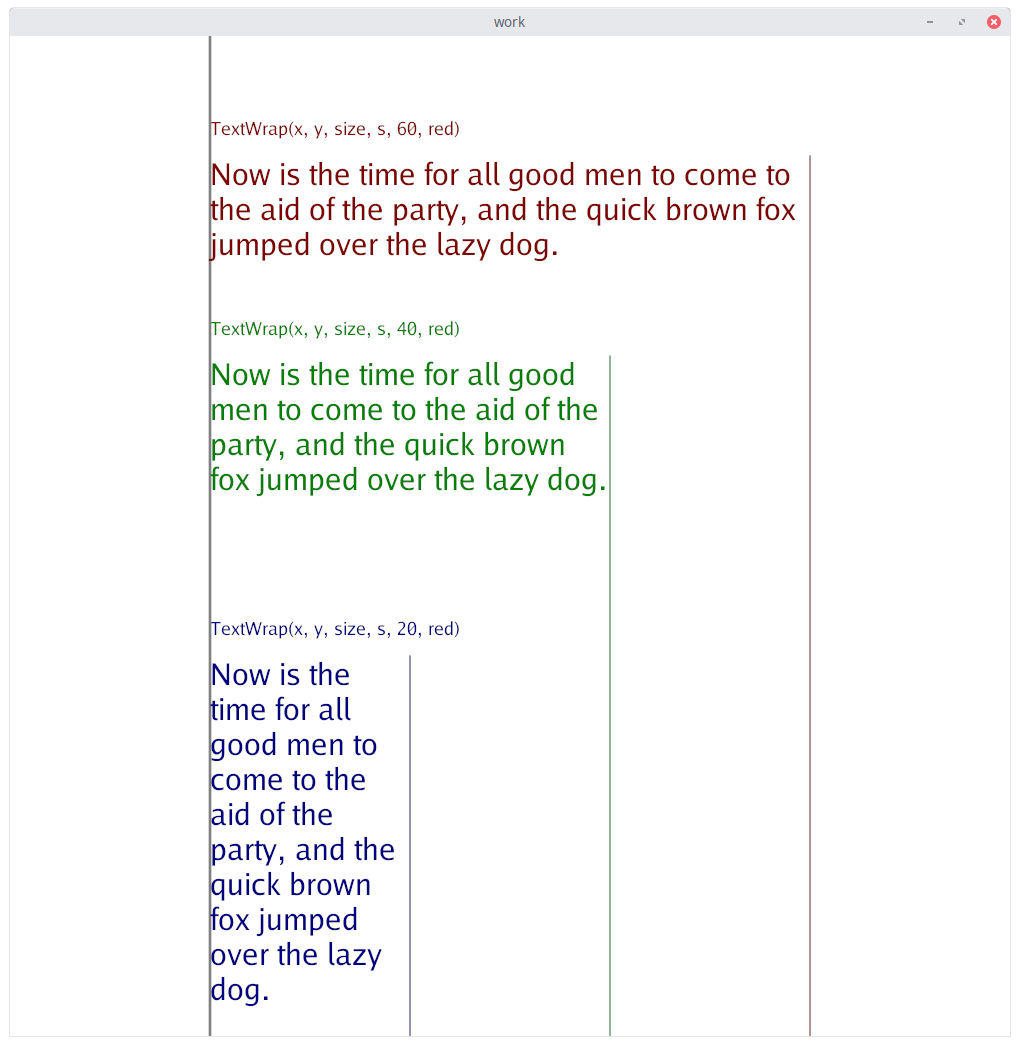
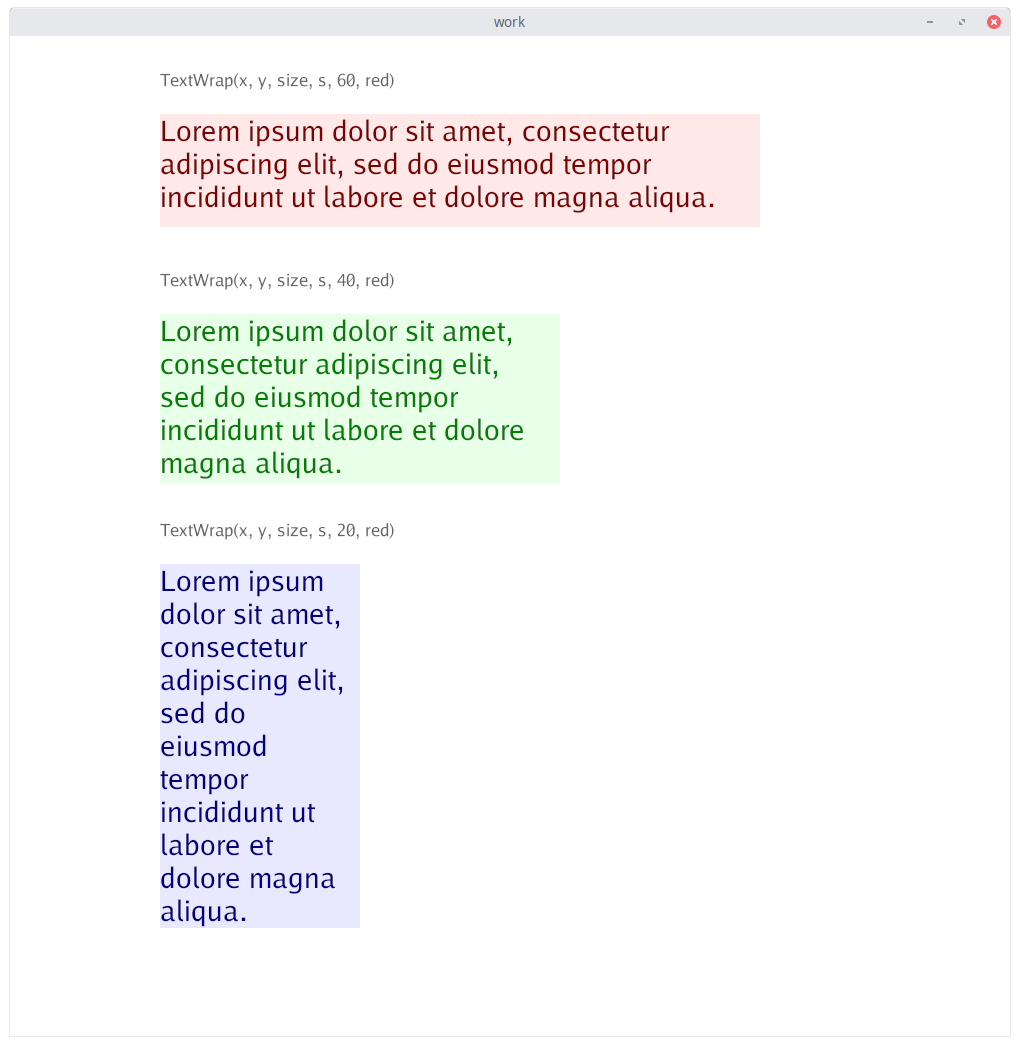
use shading to denote wrap region

Changed region(s): [[0.152, 0.0306, 0.7902, 0.979], [0.3951, 0.5813, 0.4559, 0.6119], [0.2735, 0.0612, 0.3039, 0.0918]]

diff --git a/twrap/main.go b/twrap/main.go
@@ -18,28 +18,38 @@ func pct(p float32, m float32) float32 {
 func work(title string, w, h int) {
 	width, height := float32(w), float32(h)
 	win := app.NewWindow(app.Title(title), app.Size(unit.Px(width), unit.Px(height)))
-	var ts float32 = 3
-	var lw float32 = 0.1
+	var ts float32 = 2.8
 	subsize := ts * 0.6
-	gray := color.RGBA{128, 128, 128, 255}
+	gray := color.RGBA{100, 100, 100, 255}
 	red := color.RGBA{128, 0, 0, 255}
 	green := color.RGBA{0, 128, 0, 255}
 	blue := color.RGBA{0, 0, 128, 255}
 	for e := range win.Events() {
 		if e, ok := e.(system.FrameEvent); ok {
 			canvas := giocanvas.NewCanvas(width, height, e)
-			s := "Now is the time for all good men to come to the aid of the party, and the quick brown fox jumped over the lazy dog."
-			var left float32 = 20
-			canvas.Text(left, 90, subsize, "TextWrap(x, y, size, s, 60, red)", red)
-			canvas.Text(left, 70, subsize, "TextWrap(x, y, size, s, 40, red)", green)
-			canvas.Text(left, 40, subsize, "TextWrap(x, y, size, s, 20, red)", blue)
-			canvas.Line(left, 0, left, 100, lw*2, gray)
-			canvas.Line(left+60, 85+ts, left+60, 0, lw, red)
-			canvas.Line(left+40, 65+ts, left+40, 0, lw, green)
-			canvas.Line(left+20, 35+ts, left+20, 0, lw, blue)
-			canvas.TextWrap(left, 85, ts, 60, s, red)
-			canvas.TextWrap(left, 65, ts, 40, s, green)
-			canvas.TextWrap(left, 35, ts, 20, s, blue)
+			s := "Lorem ipsum dolor sit amet, consectetur adipiscing elit, sed do eiusmod tempor incididunt ut labore et dolore magna aliqua."
+			var left float32 = 15
+			var y1, y2, y3, ys float32
+
+			y1 = 95
+			y2 = y1 - 20
+			y3 = y2 - 25
+			ys = ts * 2
+
+			canvas.Text(left, y1, subsize, "TextWrap(x, y, size, s, 60, red)", gray)
+			canvas.Text(left, y2, subsize, "TextWrap(x, y, size, s, 40, red)", gray)
+			canvas.Text(left, y3, subsize, "TextWrap(x, y, size, s, 20, red)", gray)
+			//canvas.Line(left, 0, left, 100, lw*2, gray)
+
+			red.A, green.A, blue.A = 50, 50, 50
+			canvas.CornerRect(left, y1-ts, 60, ts*4, red)
+			canvas.CornerRect(left, y2-ts, 40, ts*6, green)
+			canvas.CornerRect(left, y3-ts, 20, ts*13, blue)
+			red.A, green.A, blue.A = 255, 255, 255
+
+			canvas.TextWrap(left, y1-ys, ts, 60, s, red)
+			canvas.TextWrap(left, y2-ys, ts, 40, s, green)
+			canvas.TextWrap(left, y3-ys, ts, 20, s, blue)
 			e.Frame(canvas.Context.Ops)
 		}
 	}
